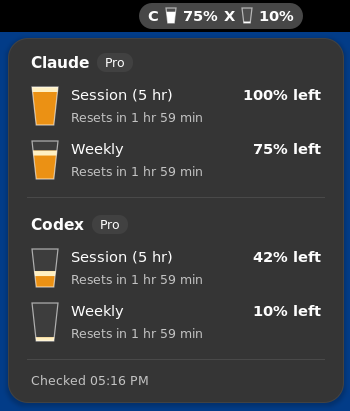
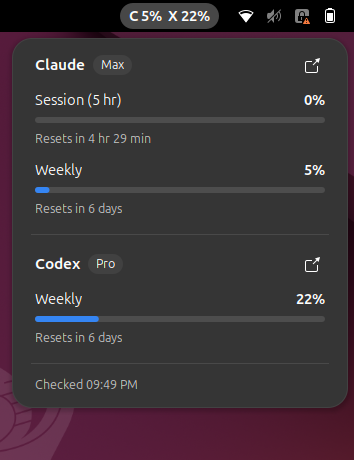
Restore meter UI while retaining exponential backoff
Amp-Thread-ID: https://ampcode.com/threads/T-01a16ba8-7bcb-7062-b812-d42d10c5df11

diff --git a/ubuntu/extension.js b/ubuntu/extension.js
@@ -21,47 +21,27 @@ function label(text, styleClass = '') {
     });
 }
 
-function beerGlass(percent, monochrome = false) {
-    const area = new St.DrawingArea({
-        style_class: monochrome ? 'ai-meter-panel-glass' : 'ai-meter-glass',
-        y_align: Clutter.ActorAlign.CENTER,
-    });
+function meter(percent) {
+    const area = new St.DrawingArea({style_class: 'ai-meter-bar', x_expand: true});
     area.connect('repaint', actor => {
         const [width, height] = actor.get_surface_size();
         const context = actor.get_context();
-        const glass = () => {
+        const capsule = length => {
+            const radius = Math.min(height, length) / 2;
             context.newSubPath();
-            context.moveTo(1, 1);
-            context.lineTo(width - 1, 1);
-            context.lineTo(width * 0.85 - 1, height - 1);
-            context.lineTo(width * 0.15 + 1, height - 1);
+            context.arc(length - radius, height / 2, radius, -Math.PI / 2, Math.PI / 2);
+            context.arc(radius, height / 2, radius, Math.PI / 2, 3 * Math.PI / 2);
             context.closePath();
+            context.fill();
         };
         const color = actor.get_theme_node().get_foreground_color();
-        const foreground = [color.red / 255, color.green / 255, color.blue / 255];
-        const fraction = Math.min(1, Math.max(0, (100 - percent) / 100));
-        const fillHeight = (height - 2) * fraction;
-        const fillTop = height - 1 - fillHeight;
-        context.save();
-        glass();
-        context.clip();
-        context.setSourceRGBA(...foreground, 0.04);
-        context.paint();
-        if (fraction > 0) {
-            context.setSourceRGB(...(monochrome ? foreground : [0.92, 0.57, 0.08]));
-            context.rectangle(0, fillTop, width, fillHeight);
-            context.fill();
-            if (!monochrome) {
-                context.setSourceRGB(1, 0.94, 0.76);
-                context.rectangle(0, fillTop, width, Math.min(5, fillHeight));
-                context.fill();
-            }
+        context.setSourceRGBA(color.red / 255, color.green / 255, color.blue / 255, 0.12);
+        capsule(width);
+        if (percent > 0) {
+            const tint = percent >= 90 ? [0.90, 0.25, 0.27] : percent >= 70 ? [0.96, 0.60, 0.16] : [0.21, 0.52, 0.95];
+            context.setSourceRGB(...tint);
+            capsule(Math.min(width, Math.max(height, width * percent / 100)));
         }
-        context.restore();
-        glass();
-        context.setSourceRGBA(...foreground, 0.6);
-        context.setLineWidth(1.2);
-        context.stroke();
         context.$dispose();
     });
     return area;
@@ -75,8 +55,8 @@ export default class AIMeterExtension extends Extension {
             ...provider, usage: null, error: null, schedule: new RefreshSchedule(),
         }));
         this._button = new PanelMenu.Button(0.0, 'AI Meter');
-        this._summary = new St.BoxLayout({style_class: 'ai-meter-summary'});
-        this._button.add_child(this._summary);
+        this._label = label('C –  X –');
+        this._button.add_child(this._label);
         Main.panel.addToStatusArea(this.uuid, this._button);
         this._button.menu.connect('open-state-changed', (_menu, open) => {
             if (open)
@@ -127,17 +107,10 @@ export default class AIMeterExtension extends Extension {
     }
 
     _render() {
-        this._summary.destroy_all_children();
-        const descriptions = [];
-        for (const provider of this._providers) {
+        this._label.text = this._providers.map(provider => {
             const value = peak(provider.usage);
-            this._summary.add_child(label(provider.initial));
-            if (value !== null)
-                this._summary.add_child(beerGlass(value, true));
-            this._summary.add_child(label(`${value === null ? '–' : `${Math.round(100 - value)}%`}${provider.error ? ' !' : ''}`));
-            descriptions.push(`${provider.name} ${value === null ? 'usage unavailable' : `${Math.round(100 - value)}% remaining`}${provider.error ? ', check failed; saved usage if available' : ''}`);
-        }
-        this._button.accessible_name = descriptions.join(', ');
+            return `${provider.initial} ${value === null ? '–' : `${Math.round(value)}%`}${provider.error ? ' !' : ''}`;
+        }).join('  ');
         this._button.menu.removeAll();
         for (const [index, provider] of this._providers.entries()) {
             if (index)
@@ -170,33 +143,17 @@ export default class AIMeterExtension extends Extension {
             if (!provider.usage && !provider.error)
                 section.add_child(label('Loading…', 'ai-meter-muted'));
             for (const window of provider.usage?.windows ?? []) {
-                const row = new St.BoxLayout({style_class: 'ai-meter-window'});
-                row.add_child(beerGlass(window.percent));
-                const details = new St.BoxLayout({vertical: true, style_class: 'ai-meter-window-details', x_expand: true});
+                const row = new St.BoxLayout({vertical: true, style_class: 'ai-meter-window'});
                 const heading = new St.BoxLayout();
                 const title = label(window.title);
                 title.x_expand = true;
                 heading.add_child(title);
-                heading.add_child(label(`${Math.round(100 - window.percent)}% left`, 'ai-meter-percent'));
-                details.add_child(heading);
+                heading.add_child(label(`${Math.round(window.percent)}%`, 'ai-meter-percent'));
+                row.add_child(heading);
+                row.add_child(meter(window.percent));
                 if (window.resetsAt)
-                    details.add_child(label(`Resets ${relative(window.resetsAt)}`, 'ai-meter-muted'));
-                row.add_child(details);
+                    row.add_child(label(`Resets ${relative(window.resetsAt)}`, 'ai-meter-muted'));
                 section.add_child(row);
-            }
-            if (!provider.error && peak(provider.usage) === 100) {
-                const cutoff = new St.BoxLayout({style_class: 'ai-meter-cutoff'});
-                const bartender = label('🤵', 'ai-meter-bartender');
-                bartender.accessible_name = 'Bartender';
-                cutoff.add_child(bartender);
-                const message = new St.BoxLayout({vertical: true, x_expand: true});
-                message.add_child(label("You've been cut off", 'ai-meter-provider'));
-                const detail = label('A usage limit is empty. Check its reset time.', 'ai-meter-muted');
-                detail.clutter_text.line_wrap = true;
-                detail.clutter_text.ellipsize = 0;
-                message.add_child(detail);
-                cutoff.add_child(message);
-                section.add_child(cutoff);
             }
             if (provider.usage && !provider.usage.windows.length)
                 section.add_child(label('No usage limits reported.', 'ai-meter-muted'));
@@ -223,7 +180,7 @@ export default class AIMeterExtension extends Extension {
         GLib.source_remove(this._clockTimer);
         this._button.destroy();
         this._button = null;
-        this._summary = null;
+        this._label = null;
         this._session = null;
         this._cancellable = null;
         this._providers = null;

diff --git a/macOS/Sources/AIMeter/UsagePanel.swift b/macOS/Sources/AIMeter/UsagePanel.swift
@@ -63,21 +63,6 @@ private struct ProviderSection: View {
                     .foregroundStyle(.secondary)
             case .loaded(let usage):
                 ForEach(usage.windows) { WindowRow(window: $0) }
-                if usage.peakPercent == 100 {
-                    HStack(spacing: 8) {
-                        Text("🤵").font(.system(size: 30))
-                            .accessibilityLabel("Bartender")
-                        VStack(alignment: .leading, spacing: 2) {
-                            Text("You've been cut off").fontWeight(.semibold)
-                            Text("A usage limit is empty. Check its reset time.")
-                                .font(.caption)
-                                .foregroundStyle(.secondary)
-                        }
-                    }
-                    .padding(10)
-                    .frame(maxWidth: .infinity, alignment: .leading)
-                    .background(.quaternary, in: RoundedRectangle(cornerRadius: 8))
-                }
             }
         }
     }
@@ -87,28 +72,55 @@ private struct WindowRow: View {
     let window: UsageWindow
 
     var body: some View {
-        HStack(spacing: 12) {
-            BeerGlass(remaining: 100 - window.percent)
-                .frame(width: 28, height: 40)
-            VStack(alignment: .leading, spacing: 4) {
-                HStack(alignment: .firstTextBaseline) {
-                    Text(window.title)
-                    Spacer()
-                    Text("\((100 - window.percent) / 100, format: .percent.precision(.fractionLength(0))) left")
-                        .monospacedDigit()
-                        .fontWeight(.medium)
-                }
-                .font(.callout)
+        VStack(alignment: .leading, spacing: 4) {
+            HStack(alignment: .firstTextBaseline) {
+                Text(window.title)
+                Spacer()
+                Text(window.percent / 100, format: .percent.precision(.fractionLength(0)))
+                    .monospacedDigit()
+                    .fontWeight(.medium)
+            }
+            .font(.callout)
 
-                if let resetsAt = window.resetsAt {
-                    Text("Resets \(resetsAt, format: .relative(presentation: .named))")
-                        .font(.caption)
-                        .foregroundStyle(.secondary)
-                        .help(resetsAt.formatted(date: .abbreviated, time: .shortened))
-                }
+            MeterBar(fraction: window.percent / 100, tint: tint)
+
+            if let resetsAt = window.resetsAt {
+                Text("Resets \(resetsAt, format: .relative(presentation: .named))")
+                    .font(.caption)
+                    .foregroundStyle(.secondary)
+                    .help(resetsAt.formatted(date: .abbreviated, time: .shortened))
             }
         }
         .accessibilityElement(children: .combine)
+    }
+
+    private var tint: Color {
+        switch window.percent {
+        case 90...: .red
+        case 70..<90: .orange
+        default: .accentColor
+        }
+    }
+}
+
+/// A capsule meter, drawn in SwiftUI rather than with `ProgressView` so the orange and
+/// red warning colors don't depend on how AppKit's bar treats `.tint`.
+private struct MeterBar: View {
+    let fraction: Double
+    let tint: Color
+
+    var body: some View {
+        GeometryReader { proxy in
+            Capsule()
+                .fill(.quaternary)
+                .overlay(alignment: .leading) {
+                    Capsule()
+                        .fill(tint)
+                        .frame(width: max(proxy.size.width * min(max(fraction, 0), 1), fraction > 0 ? 6 : 0))
+                }
+        }
+        .frame(height: 6)
+        .accessibilityHidden(true)
     }
 }
 

diff --git a/macOS/Sources/AIMeter/AIMeterApp.swift b/macOS/Sources/AIMeter/AIMeterApp.swift
@@ -17,47 +17,26 @@ struct AIMeterApp: App {
     }
 }
 
-/// Each glass shows the allowance left in the provider's tightest window.
+/// Compact status item, e.g. "C 8%  X 0%". Template-rendered so it follows the menu bar's appearance.
 struct MenuBarLabel: View {
     let store: UsageStore
 
     var body: some View {
-        HStack(spacing: 6) {
-            ForEach(Provider.allCases) { provider in
-                Text(provider.initial)
-                if let peak = store.state(for: provider).usage?.peakPercent {
-                    Image(nsImage: glassImage(remaining: 100 - peak))
-                    Text(percentText(for: provider))
-                } else {
-                    Text("–")
-                }
-            }
-        }
-        .monospacedDigit()
-        .accessibilityElement(children: .ignore)
-        .accessibilityLabel(accessibilitySummary)
+        Text(summary)
+            .monospacedDigit()
+            .accessibilityLabel(accessibilitySummary)
+    }
+
+    private var summary: String {
+        Provider.allCases.map { "\($0.initial) \(percentText(for: $0))" }.joined(separator: "  ")
     }
 
     private var accessibilitySummary: String {
-        Provider.allCases.map {
-            store.state(for: $0).usage?.peakPercent == nil
-                ? "\($0.name) usage unavailable"
-                : "\($0.name) \(percentText(for: $0)) remaining"
-        }.joined(separator: ", ")
-    }
-
-    private func glassImage(remaining: Double) -> NSImage {
-        let renderer = ImageRenderer(content: BeerGlass(remaining: remaining, monochrome: true)
-            .frame(width: 12, height: 17)
-            .environment(\.colorScheme, .light))
-        renderer.scale = 2
-        let image = renderer.nsImage ?? NSImage(size: NSSize(width: 12, height: 17))
-        image.isTemplate = true
-        return image
+        Provider.allCases.map { "\($0.name) \(percentText(for: $0)) used" }.joined(separator: ", ")
     }
 
     private func percentText(for provider: Provider) -> String {
         guard let peak = store.state(for: provider).usage?.peakPercent else { return "–" }
-        return "\(Int((100 - peak).rounded()))%"
+        return "\(Int(peak.rounded()))%"
     }
 }

diff --git a/ubuntu/stylesheet.css b/ubuntu/stylesheet.css
@@ -38,10 +38,6 @@
 }
 
 .ai-meter-window {
-    spacing: 12px;
-}
-
-.ai-meter-window-details {
     spacing: 6px;
 }
 
@@ -50,29 +46,9 @@
     font-feature-settings: "tnum";
 }
 
-.ai-meter-summary {
-    spacing: 6px;
-}
-
-.ai-meter-panel-glass {
-    width: 12px;
-    height: 17px;
-}
-
-.ai-meter-glass {
-    width: 28px;
-    height: 40px;
-}
-
-.ai-meter-cutoff {
-    spacing: 8px;
-    padding: 10px;
-    border-radius: 8px;
-    background-color: rgba(128, 128, 128, 0.16);
-}
-
-.ai-meter-bartender {
-    font-size: 30px;
+.ai-meter-bar {
+    height: 6px;
+    margin: 2px 0;
 }
 
 .ai-meter-muted {

diff --git a/ubuntu/README.md b/ubuntu/README.md
@@ -4,12 +4,9 @@ A native GNOME Shell 46 extension that shows Claude and Codex plan usage in the
 top bar. It uses JavaScript, GJS, St, Gio, and libsoup. It does not use Python,
 GTK, AppIndicator, Node.js, or a background service.
 
-Click the top-bar glasses to open the usage panel. Each beer glass empties as
-usage increases. Each row shows the percentage left and the reset time.
-The top bar shows the lowest remaining allowance for each provider.
-When any window is fully used, a bartender says "You've been cut off".
-Unknown usage shows a dash, not an empty glass. Failed checks keep the saved
-usage and error warning, but do not show a new cutoff message.
+Click `C 5%  X 21%` to open the usage panel. The bars are blue below 70%, orange
+from 70%, and red from 90%. Each row shows the percentage used and the reset time.
+The top bar shows the highest percentage for each provider.
 
 ![Native GNOME Shell usage panel](docs/native-popup.png)
 

diff --git a/macOS/README.md b/macOS/README.md
@@ -1,11 +1,8 @@
 # AI Meter for macOS
 
-A menu bar app that shows the Claude and Codex allowance left with beer glasses.
-Each glass empties as usage increases. The menu bar shows each provider's
-tightest window. Click it to see a glass for every window, its remaining
-percentage, its reset time, and a link to the provider's usage page.
-When any window is fully used, a bartender says "You've been cut off".
-Unknown usage shows a dash or an error, not an empty glass.
+A menu bar app that shows Claude and Codex plan usage at a glance (`C 8%  X 0%`).
+The label shows each provider's tightest window; click it to see every window,
+when it resets, and links to each provider's usage page.
 
 | Light | Dark |
 | --- | --- |
